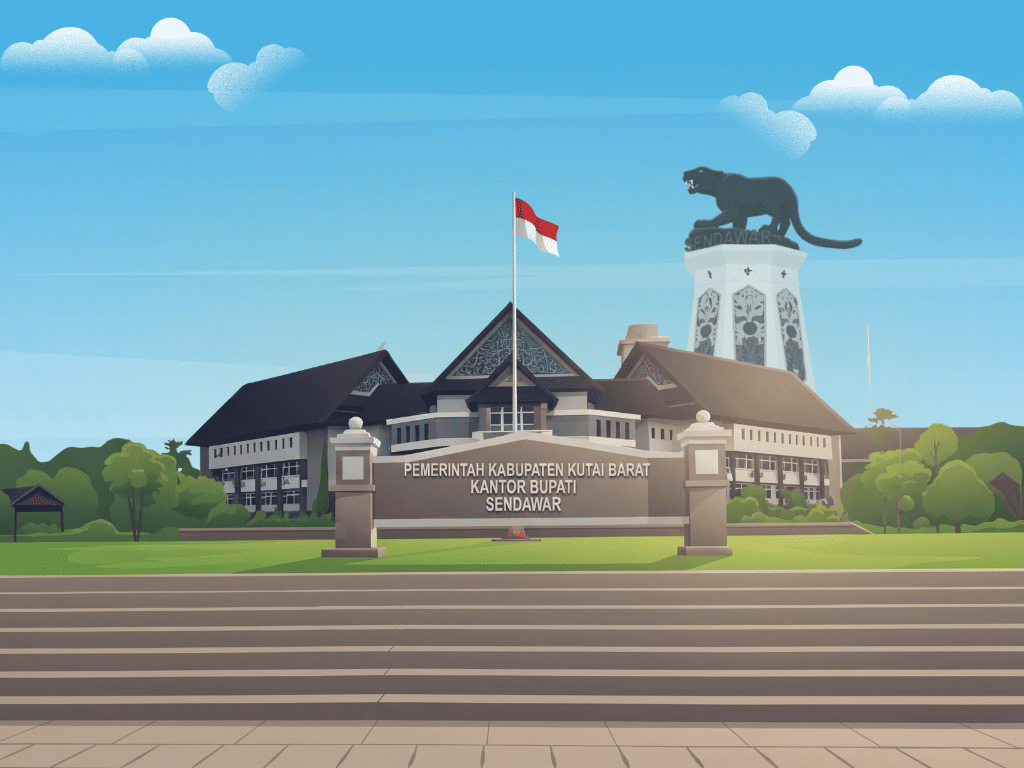
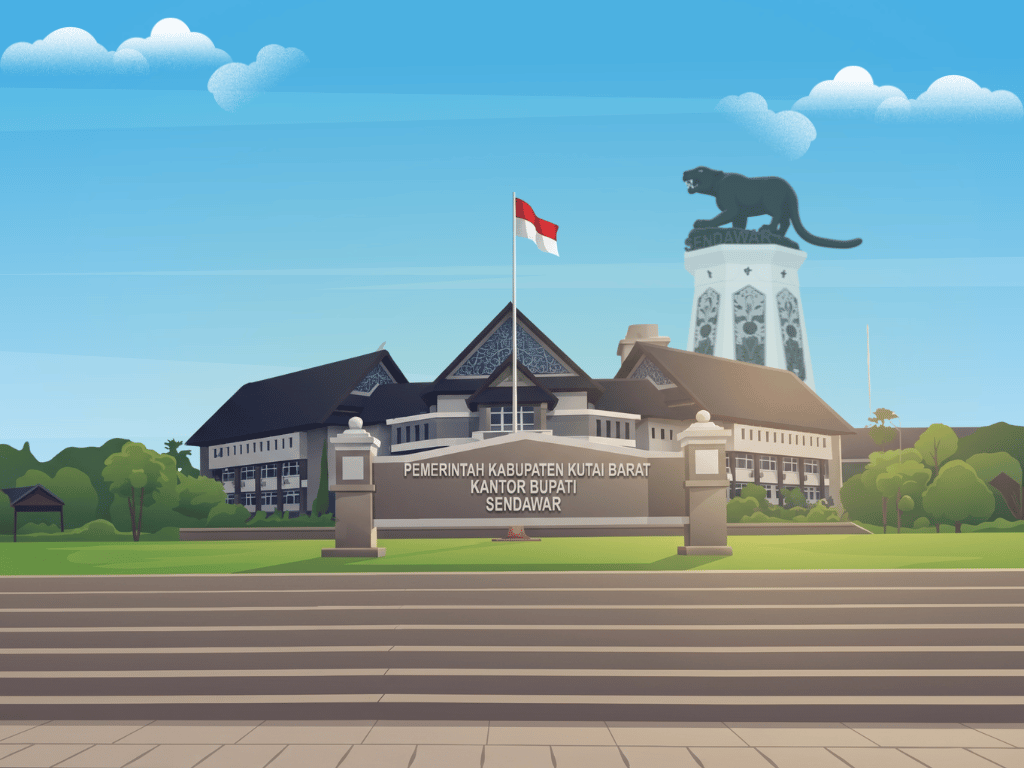
style(login): make layout compact within 100vh and remove inner text container

diff --git a/src/app/login/page.tsx b/src/app/login/page.tsx
@@ -59,11 +59,11 @@ export default function LoginPage() {
   }
 
   return (
-    <div className="min-h-screen w-full flex flex-col lg:grid lg:grid-cols-12 bg-canvas font-sans overflow-x-hidden">
+    <div className="h-screen max-h-screen w-full flex flex-col lg:grid lg:grid-cols-12 bg-canvas font-sans overflow-y-auto lg:overflow-hidden">
       {/* ── LEFT COLUMN: Login Form & Authenticated Panel (5 Cols) ── */}
-      <div className="lg:col-span-5 xl:col-span-5 flex flex-col justify-between p-6 sm:p-10 lg:p-12 xl:p-16 bg-surface border-r border-line min-h-screen">
+      <div className="lg:col-span-5 xl:col-span-5 flex flex-col justify-between p-6 sm:p-8 lg:p-8 xl:p-10 bg-surface border-r border-line h-full overflow-y-auto lg:overflow-hidden">
         {/* Top Bar: Back Link & Regional Identity */}
-        <div className="flex items-center justify-between gap-3">
+        <div className="flex items-center justify-between gap-3 shrink-0">
           <Link
             href="/"
             className="inline-flex items-center gap-2 text-xs font-medium text-ink-muted hover:text-brand transition-colors group">
@@ -78,42 +78,42 @@ export default function LoginPage() {
         </div>
 
         {/* Center: Auth Card & Form */}
-        <div className="my-auto py-8 sm:py-10 max-w-sm sm:max-w-md w-full mx-auto space-y-6">
+        <div className="my-auto py-3 sm:py-4 max-w-sm sm:max-w-md w-full mx-auto space-y-4">
           {/* Logo & Headline */}
-          <div className="space-y-3 text-left">
-            <div className="flex items-center gap-3">
-              <div className="w-12 h-12 rounded-2xl bg-surface border border-line p-2 flex items-center justify-center shadow-xs shrink-0">
+          <div className="space-y-2.5 text-left">
+            <div className="flex items-center gap-2.5">
+              <div className="w-10 h-10 rounded-xl bg-surface border border-line p-1.5 flex items-center justify-center shadow-xs shrink-0">
                 <Image
                   src="/kubar.png"
                   alt="Logo Kutai Barat"
-                  width={36}
-                  height={36}
+                  width={32}
+                  height={32}
                   className="w-full h-full object-contain"
                   priority
                 />
               </div>
               <div className="flex flex-col leading-tight">
-                <span className="font-bold text-lg tracking-tight text-ink font-sans">
+                <span className="font-bold text-base sm:text-lg tracking-tight text-ink font-sans">
                   PEKPPP<span className="text-brand">.ext</span>
                 </span>
-                <span className="text-xs text-ink-muted">
+                <span className="text-[11px] text-ink-muted">
                   Kabupaten Kutai Barat
                 </span>
               </div>
             </div>
 
-            <div className="pt-2">
-              <h1 className="text-2xl sm:text-3xl font-bold text-ink tracking-tight">
+            <div className="pt-1">
+              <h1 className="text-xl sm:text-2xl font-bold text-ink tracking-tight">
                 Masuk ke Portal
               </h1>
-              <p className="text-xs sm:text-sm text-ink-muted mt-1 leading-relaxed">
+              <p className="text-xs text-ink-muted mt-0.5 leading-relaxed">
                 Pusat kendali evaluasi pelayanan publik terpadu, asistensi eviden digital, dan penetapan nilai IPP.
               </p>
             </div>
           </div>
 
           {/* Quick Demo Credentials Switcher */}
-          <div className="p-3.5 sm:p-4 rounded-2xl bg-surface-subtle/70 border border-line space-y-2.5">
+          <div className="p-3 rounded-xl bg-surface-subtle/70 border border-line space-y-2">
             <div className="flex items-center justify-between">
               <span className="text-[10px] font-semibold uppercase tracking-wider text-ink-muted flex items-center gap-1">
                 <Sparkles className="w-3 h-3 text-amber-500" />
@@ -126,7 +126,7 @@ export default function LoginPage() {
               <button
                 type="button"
                 onClick={() => fillDemo('admin', 'admin@kubar.go.id', 'admin123')}
-                className={`p-2.5 rounded-xl border text-left transition-all cursor-pointer ${
+                className={`p-2 rounded-lg border text-left transition-all cursor-pointer ${
                   activeDemo === 'admin'
                     ? 'bg-brand/10 border-brand text-brand shadow-xs'
                     : 'bg-surface border-line hover:border-brand/40 hover:bg-surface-subtle text-ink'
@@ -143,7 +143,7 @@ export default function LoginPage() {
               <button
                 type="button"
                 onClick={() => fillDemo('opd', 'opd@kubar.go.id', 'opd123')}
-                className={`p-2.5 rounded-xl border text-left transition-all cursor-pointer ${
+                className={`p-2 rounded-lg border text-left transition-all cursor-pointer ${
                   activeDemo === 'opd'
                     ? 'bg-brand/10 border-brand text-brand shadow-xs'
                     : 'bg-surface border-line hover:border-brand/40 hover:bg-surface-subtle text-ink'
@@ -160,13 +160,13 @@ export default function LoginPage() {
           </div>
 
           {/* Login Form */}
-          <form onSubmit={handleLogin} className="space-y-4">
-            <div className="space-y-1.5">
-              <label className="block text-xs font-semibold text-ink">
+          <form onSubmit={handleLogin} className="space-y-3">
+            <div className="space-y-1">
+              <label className="block text-[11px] font-semibold text-ink">
                 Alamat Email
               </label>
               <div className="relative">
-                <Mail className="w-4 h-4 text-ink-muted absolute left-3.5 top-1/2 -translate-y-1/2 pointer-events-none" />
+                <Mail className="w-3.5 h-3.5 text-ink-muted absolute left-3.5 top-1/2 -translate-y-1/2 pointer-events-none" />
                 <input
                   type="email"
                   value={email}
@@ -175,20 +175,20 @@ export default function LoginPage() {
                     setActiveDemo(null)
                   }}
                   placeholder="nama@kutaibaratkab.go.id"
-                  className="w-full pl-10 pr-3.5 py-2.5 sm:py-3 rounded-xl border border-line text-xs sm:text-sm text-ink placeholder:text-ink-muted bg-surface focus:outline-none focus:border-brand focus:ring-2 focus:ring-brand/10 transition-all shadow-2xs"
+                  className="w-full pl-9 pr-3.5 py-2 sm:py-2.5 rounded-xl border border-line text-xs sm:text-sm text-ink placeholder:text-ink-muted bg-surface focus:outline-none focus:border-brand focus:ring-2 focus:ring-brand/10 transition-all shadow-2xs"
                   required
                 />
               </div>
             </div>
 
-            <div className="space-y-1.5">
+            <div className="space-y-1">
               <div className="flex items-center justify-between">
-                <label className="block text-xs font-semibold text-ink">
+                <label className="block text-[11px] font-semibold text-ink">
                   Kata Sandi
                 </label>
               </div>
               <div className="relative">
-                <Lock className="w-4 h-4 text-ink-muted absolute left-3.5 top-1/2 -translate-y-1/2 pointer-events-none" />
+                <Lock className="w-3.5 h-3.5 text-ink-muted absolute left-3.5 top-1/2 -translate-y-1/2 pointer-events-none" />
                 <input
                   type={showPassword ? 'text' : 'password'}
                   value={password}
@@ -197,15 +197,15 @@ export default function LoginPage() {
                     setActiveDemo(null)
                   }}
                   placeholder="••••••••"
-                  className="w-full pl-10 pr-10 py-2.5 sm:py-3 rounded-xl border border-line text-xs sm:text-sm text-ink placeholder:text-ink-muted bg-surface focus:outline-none focus:border-brand focus:ring-2 focus:ring-brand/10 transition-all shadow-2xs"
+                  className="w-full pl-9 pr-9 py-2 sm:py-2.5 rounded-xl border border-line text-xs sm:text-sm text-ink placeholder:text-ink-muted bg-surface focus:outline-none focus:border-brand focus:ring-2 focus:ring-brand/10 transition-all shadow-2xs"
                   required
                 />
                 <button
                   type="button"
                   onClick={() => setShowPassword(!showPassword)}
-                  className="absolute right-3 top-1/2 -translate-y-1/2 text-ink-muted hover:text-ink p-1 rounded-md transition-colors"
+                  className="absolute right-2.5 top-1/2 -translate-y-1/2 text-ink-muted hover:text-ink p-1 rounded-md transition-colors"
                   title={showPassword ? 'Sembunyikan kata sandi' : 'Tampilkan kata sandi'}>
-                  {showPassword ? <EyeOff className="w-4 h-4" /> : <Eye className="w-4 h-4" />}
+                  {showPassword ? <EyeOff className="w-3.5 h-3.5" /> : <Eye className="w-3.5 h-3.5" />}
                 </button>
               </div>
             </div>
@@ -213,10 +213,10 @@ export default function LoginPage() {
             <button
               type="submit"
               disabled={loading}
-              className="w-full py-3 px-5 rounded-xl bg-brand hover:bg-brand-hover active:scale-[0.99] disabled:opacity-50 text-white font-semibold text-xs sm:text-sm transition-all shadow-md flex items-center justify-center gap-2 cursor-pointer mt-2">
+              className="w-full py-2.5 px-4 rounded-xl bg-brand hover:bg-brand-hover active:scale-[0.99] disabled:opacity-50 text-white font-semibold text-xs sm:text-sm transition-all shadow-md flex items-center justify-center gap-2 cursor-pointer mt-1">
               {loading ? (
                 <>
-                  <div className="w-4 h-4 border-2 border-white/30 border-t-white rounded-full animate-spin" />
+                  <div className="w-3.5 h-3.5 border-2 border-white/30 border-t-white rounded-full animate-spin" />
                   <span>Memverifikasi Akun...</span>
                 </>
               ) : (
@@ -236,14 +236,14 @@ export default function LoginPage() {
         </div>
 
         {/* Bottom Footer Information */}
-        <div className="pt-6 border-t border-line text-[11px] text-ink-muted flex flex-col sm:flex-row items-center justify-between gap-2">
+        <div className="pt-3 border-t border-line text-[11px] text-ink-muted flex flex-col sm:flex-row items-center justify-between gap-2 shrink-0">
           <span>&copy; {new Date().getFullYear()} Pemerintah Kabupaten Kutai Barat</span>
           <span className="text-[10px] text-ink-muted font-mono">v2.6 • PEKPPP.ext</span>
         </div>
       </div>
 
       {/* ── RIGHT COLUMN: Immersive Landmark Canvas (7 Cols) ── */}
-      <div className="hidden lg:relative lg:col-span-7 xl:col-span-7 lg:flex flex-col justify-between p-8 xl:p-12 overflow-hidden bg-[#0A2652] text-white lg:m-3 xl:m-4 rounded-3xl border border-white/10 shadow-2xl">
+      <div className="hidden lg:relative lg:col-span-7 xl:col-span-7 lg:flex flex-col justify-between p-8 xl:p-10 overflow-hidden bg-[#0A2652] text-white lg:m-2.5 xl:m-3 rounded-2xl xl:rounded-3xl border border-white/10 shadow-xl h-[calc(100vh-1.25rem)] xl:h-[calc(100vh-1.5rem)]">
         {/* Full Bleed Image using kantor.png */}
         <div className="absolute inset-0 z-0">
           <Image
@@ -260,7 +260,7 @@ export default function LoginPage() {
 
         {/* Top Header Floating Badge */}
         <div className="relative z-10 flex items-center justify-between">
-          <div className="inline-flex items-center gap-2.5 px-3.5 py-1.5 rounded-full bg-white/10 backdrop-blur-md border border-white/20 text-xs shadow-sm">
+          <div className="inline-flex items-center gap-2 px-3 py-1.5 rounded-full bg-black/30 backdrop-blur-md border border-white/15 text-xs shadow-sm">
             <div className="w-4 h-4 relative shrink-0">
               <Image
                 src="/kubar.png"
@@ -275,26 +275,26 @@ export default function LoginPage() {
             <span className="text-sky-100">Bagian Organisasi Setdakab</span>
           </div>
 
-          <span className="text-xs font-mono text-sky-100/80 bg-black/30 backdrop-blur-xs px-3 py-1 rounded-full border border-white/15">
+          <span className="text-xs font-mono text-sky-100/90 bg-black/30 backdrop-blur-xs px-3 py-1 rounded-full border border-white/15">
             Bumi Tanaa Purai Ngeriman
           </span>
         </div>
 
-        {/* Bottom Editorial Showcase Main Card */}
-        <div className="relative z-10 max-w-xl rounded-2xl sm:rounded-3xl bg-[#061833]/60 backdrop-blur-md border border-white/15 p-6 sm:p-7 space-y-4 shadow-xl">
+        {/* Bottom Editorial Showcase - Clean text without container box */}
+        <div className="relative z-10 max-w-xl space-y-3">
           <div className="space-y-2">
-            <h2 className="text-xl sm:text-2xl xl:text-3xl font-bold text-white tracking-tight leading-snug drop-shadow-sm">
+            <h2 className="text-xl sm:text-2xl xl:text-3xl font-bold text-white tracking-tight leading-snug drop-shadow-md">
               Sistem Evaluasi Mandiri Kinerja Pelayanan Publik (PEKPPP)
             </h2>
-            <p className="text-xs sm:text-sm xl:text-base text-sky-100/90 leading-relaxed font-normal">
+            <p className="text-xs sm:text-sm text-sky-100/90 leading-relaxed font-normal drop-shadow-sm max-w-lg">
               Portal terpadu pelaksanaan Pemantauan dan Evaluasi Kinerja Penyelenggaraan Pelayanan Publik (PEKPPP) di lingkungan Pemerintah Kabupaten Kutai Barat.
             </p>
           </div>
 
           {/* Slogan Ribbon */}
-          <div className="pt-3 flex items-center justify-between text-xs text-sky-200/80 border-t border-white/15">
+          <div className="pt-3 flex items-center justify-between text-xs text-sky-200/90 border-t border-white/20">
             <span className="italic font-medium">Sempekat Bersama Kita Pasti Bisa</span>
-            <span className="font-mono text-white">PEKPPP {new Date().getFullYear()}</span>
+            <span className="font-mono text-white/90">PEKPPP {new Date().getFullYear()}</span>
           </div>
         </div>
       </div>
